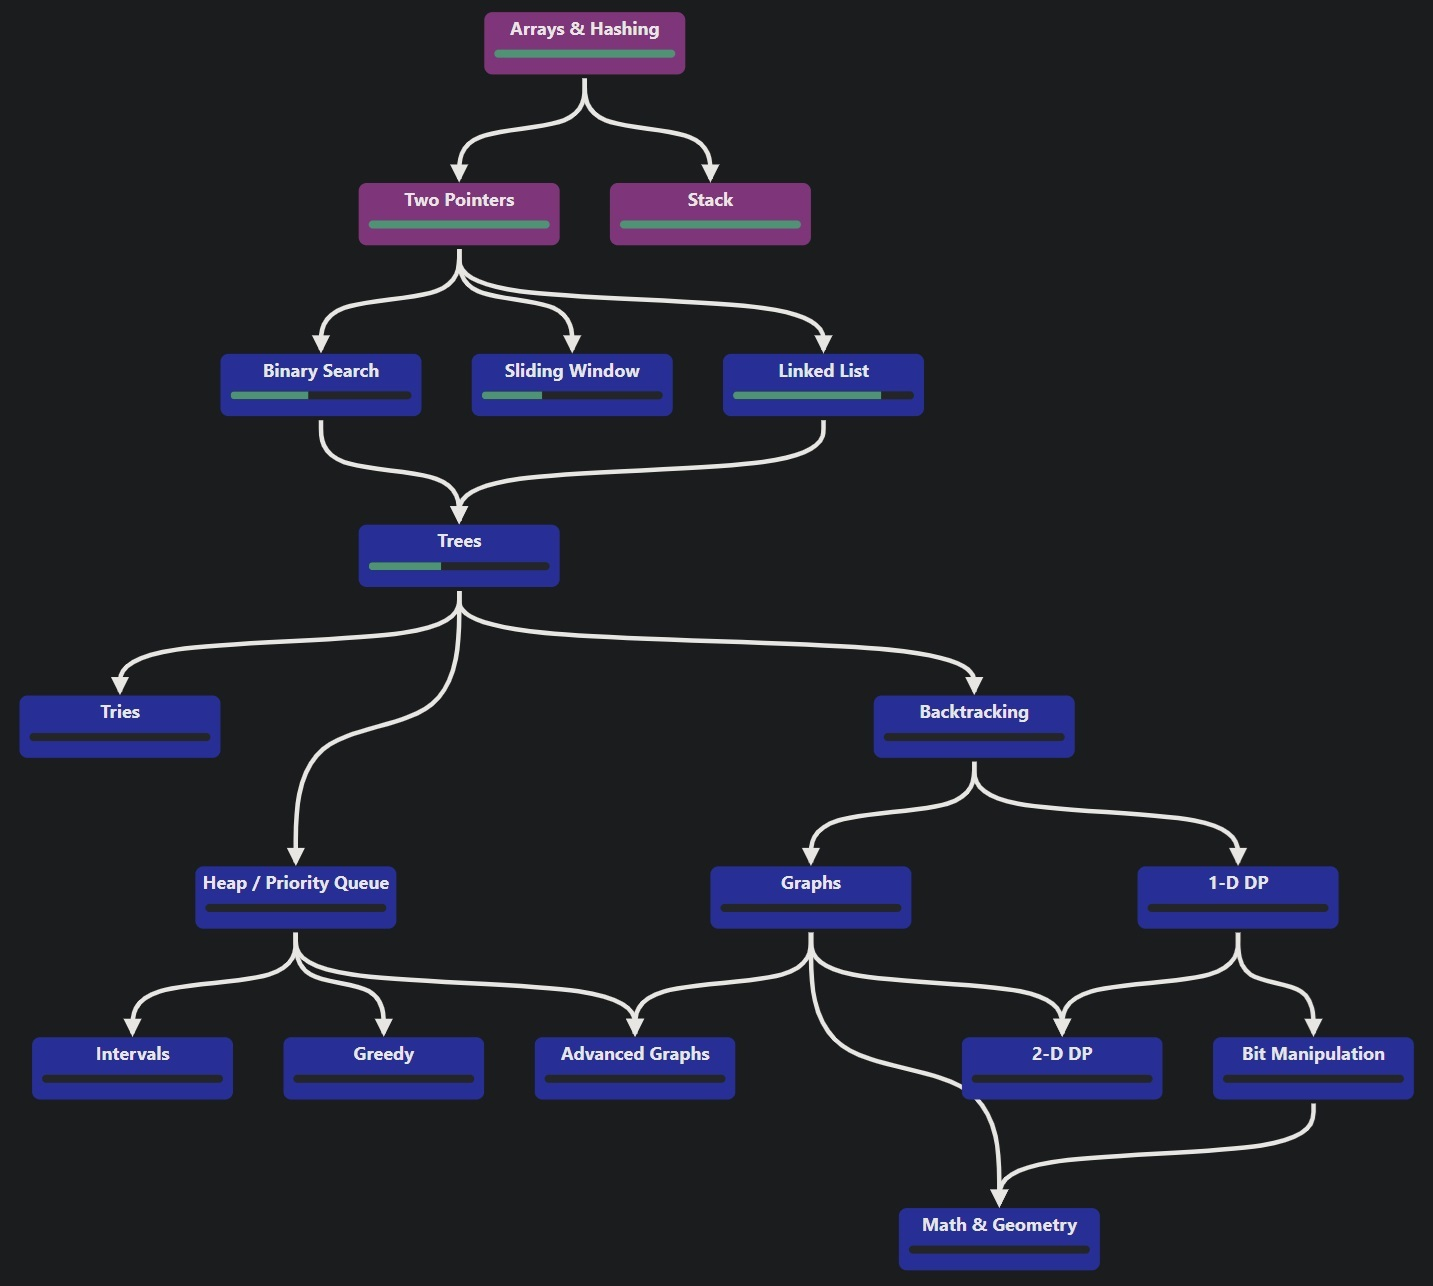
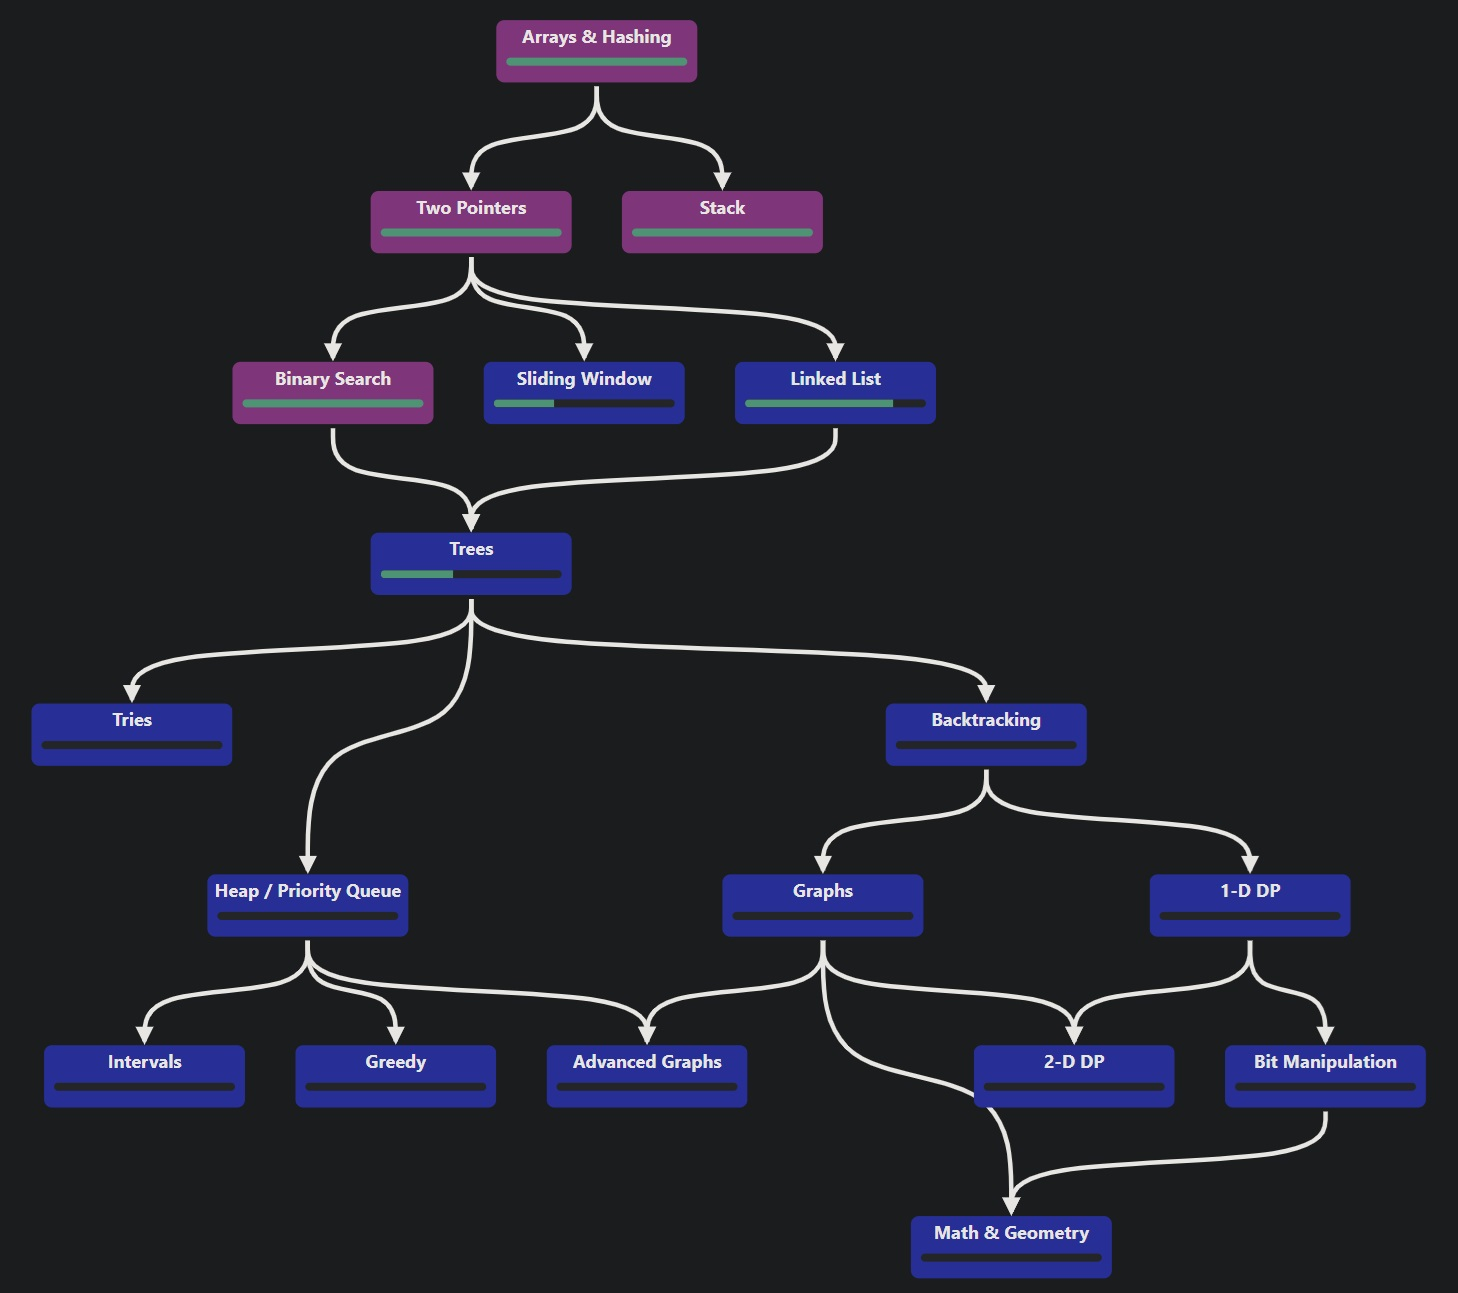
Finished "Binary Search" category

Changed region(s): [[0.1535, 0.0, 1.0, 0.9953], [0.0, 0.5599, 0.522, 0.8709], [0.0, 0.4977, 0.2456, 0.591]]

diff --git a/Binary-Search/Time-Based-Key-Value-Store.py b/Binary-Search/Time-Based-Key-Value-Store.py
@@ -1,0 +1,43 @@
+class TimeMap:
+
+    def __init__(self):
+
+        # Store user:[] pairs where the list is in ascending order of timestamps
+        self.users = {}
+
+    def set(self, key: str, value: str, timestamp: int) -> None:
+        
+        # Update the user dictionary with the timestamp, or create a new user with one
+        if not key in self.users:
+            self.users.update({key:[[timestamp, value]]})
+        else:
+            self.users[key].append([timestamp, value])
+
+    def get(self, key: str, timestamp: int) -> str:
+        
+        if not key in self.users: return ""
+
+        # Use binary search to try to find the closest timestamp value
+        timestamps = self.users[key]
+        l, r = 0, len(timestamps) - 1
+
+        while l <= r:
+
+            middle = int((l + r) / 2)
+            guess = timestamps[middle][0]
+
+            if guess == timestamp:
+                return timestamps[middle][1]
+            
+            if guess < timestamp:
+                l = middle + 1
+
+            else:
+                r = middle - 1
+
+        # Use logic based on the contraints given in the problem to return the correct
+        # timestamp that is based on the closest index found from binary search
+        if middle == 0 and timestamps[middle][0] < timestamp: return timestamps[middle][1]
+        elif middle > 0 and timestamps[middle][0] < timestamp: return timestamps[middle][1]
+        elif middle > 0 and timestamps[middle][0] > timestamp: return timestamps[middle-1][1]
+        else: return ""

diff --git a/Binary-Search/Search-In-Rotated-Sorted-Array.py b/Binary-Search/Search-In-Rotated-Sorted-Array.py
@@ -1,0 +1,42 @@
+class Solution:
+    def search(self, nums: list[int], target: int) -> int:
+        
+        # Set up pointers that mark the bounds of the search area
+        l, r = 0, len(nums) - 1
+
+        while l <= r:
+
+            # Make our guess in the middle
+            guessIndex = int((l + r) / 2)
+            guess = nums[guessIndex]
+
+            if guess == target:
+                return guessIndex
+
+            # This means we are in the left portion of the pivot. Everything to our left must 
+            # be smaller than our guess
+            if nums[l] <= guess:
+
+                # If our guess is too high, but the target is still bigger than the left bound,
+                # the target must also be in the left portion
+                if guess > target and target >= nums[l]:
+                    r = guessIndex - 1
+                
+                # Otherwise it is in the right portion
+                else:
+                    l = guessIndex + 1
+
+            # This means we are in the right portion of the pivot. Everything to our right
+            # must be larger than our guess
+            else:
+
+                # If the guess is too low, but the target is smaller than the right bound, 
+                # the target must be in the right portion
+                if guess < target and target <= nums[r]:
+                    l = guessIndex + 1
+                
+                # Otherwise it is in th left portion
+                else:
+                    r = guessIndex - 1
+
+        return -1

diff --git a/Binary-Search/Find-Minimum-In-Rotated-Sorted-Array.py b/Binary-Search/Find-Minimum-In-Rotated-Sorted-Array.py
@@ -1,0 +1,28 @@
+class Solution:
+    def findMin(self, nums: list[int]) -> int:
+        
+        # Set up a boundary on the left and right side to define the search area
+        l, r = 0, len(nums) - 1
+        minimum = None
+
+        while l <= r:
+
+            # Search the middle of the area
+            guess = int((l + r) / 2)
+
+            # Update the minimum encountered val if necessary
+            if minimum != None:
+                minimum = min(minimum, nums[guess])
+            else:
+                minimum = nums[guess]
+
+            # If the value on the right boundary is smaller, it means that the minimum must
+            # be in that half of the values as the rotation must start after our curr guess
+            if nums[guess] > nums[r]:
+                l = guess + 1
+            
+            # Otherwise the value is in the left half of the values 
+            else:
+                r = guess - 1
+
+        return minimum

diff --git a/Binary-Search/Median-Of-Two-Sorted-Arrays.py b/Binary-Search/Median-Of-Two-Sorted-Arrays.py
@@ -1,0 +1,28 @@
+class Solution:
+    def findMedianSortedArrays(self, nums1: list[int], nums2: list[int]) -> float:
+        
+        # This solution is O(n) time rather than O(log(n)). Will update in future
+
+        # Merge lists
+        p1, p2 = 0, 0
+        merged = []
+
+        while p1 < len(nums1) and p2 < len(nums2):
+            if nums1[p1] <= nums2[p2]:
+                merged.append(nums1[p1])
+                p1 += 1
+            
+            else:
+                merged.append(nums2[p2])
+                p2 += 1
+
+        if p1 < len(nums1): merged += nums1[p1:]
+        elif p2 < len(nums2): merged += nums2[p2:]
+        print(merged)
+
+        # Get the middle point
+        middle = len(merged) // 2
+
+        # Return the median
+        if len(merged) % 2 == 0: return (merged[middle] + merged[middle - 1]) / 2
+        else: return merged[middle]
